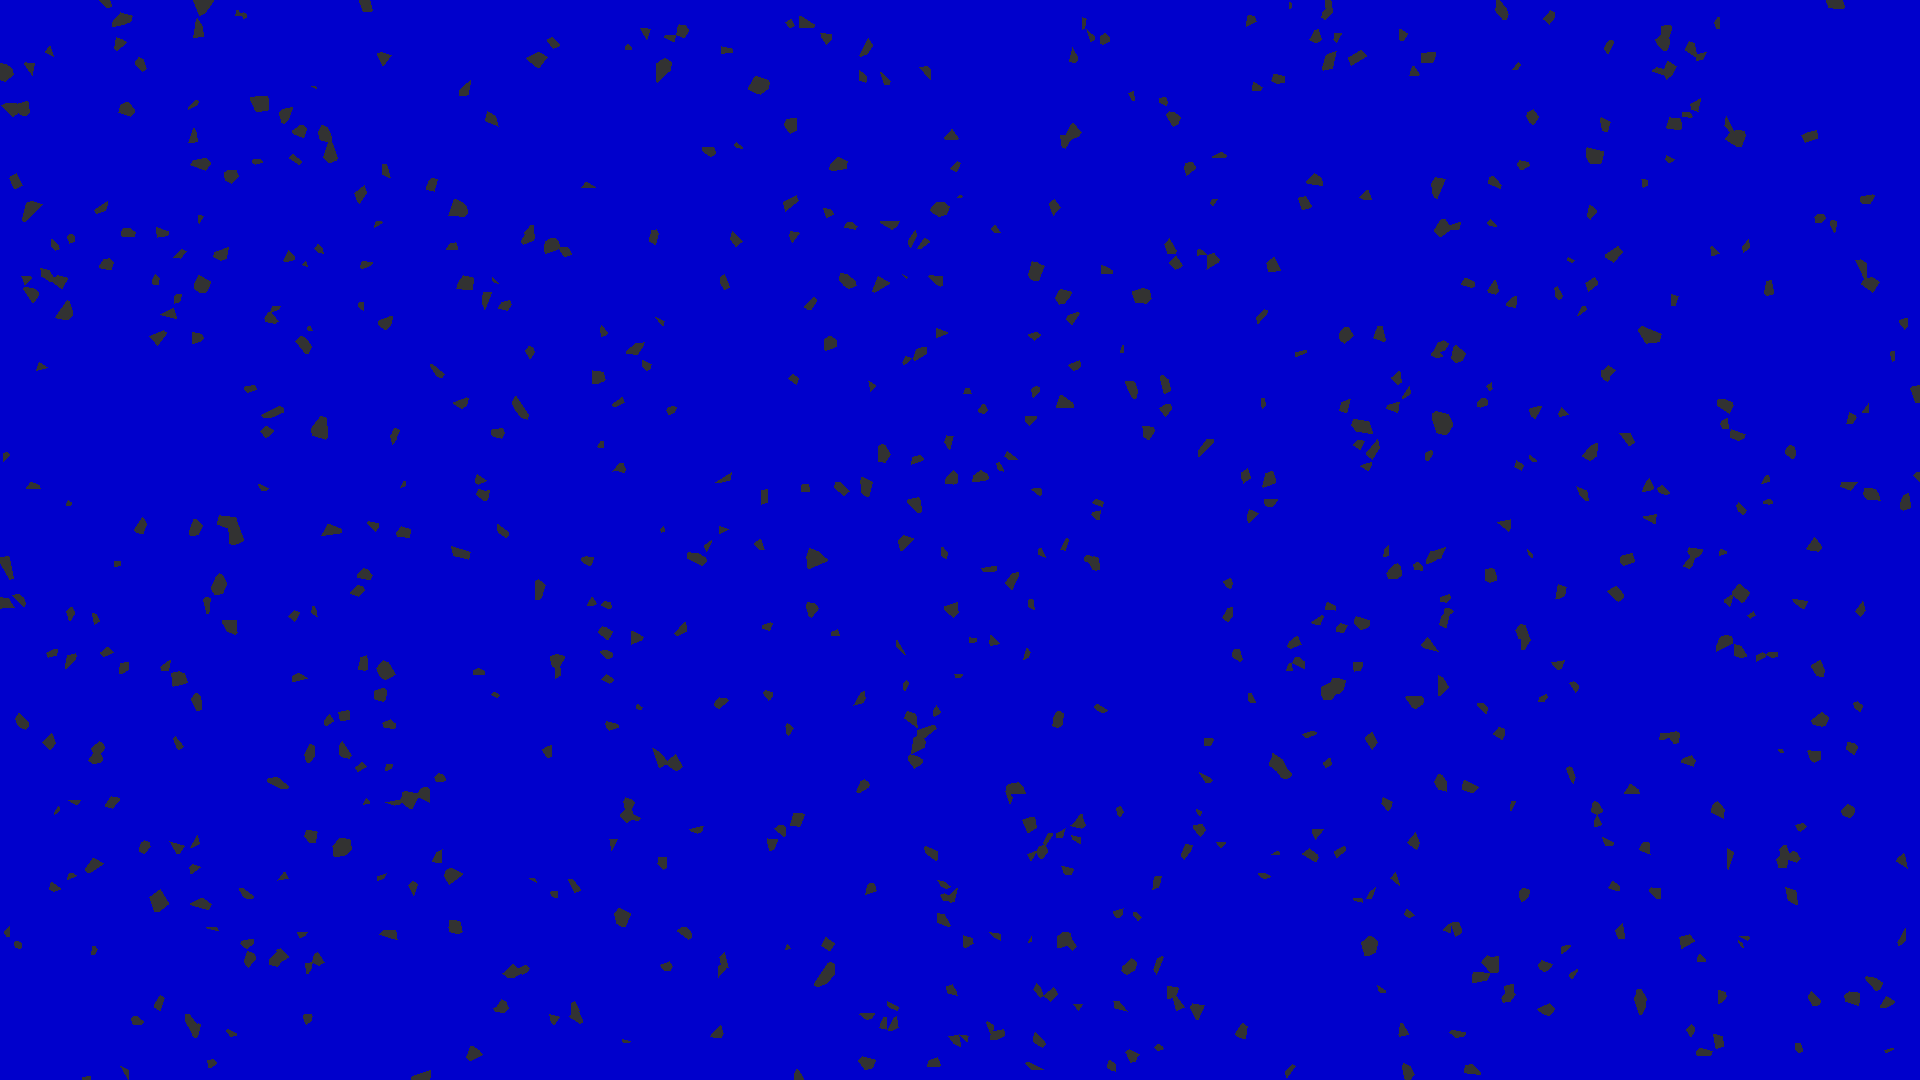
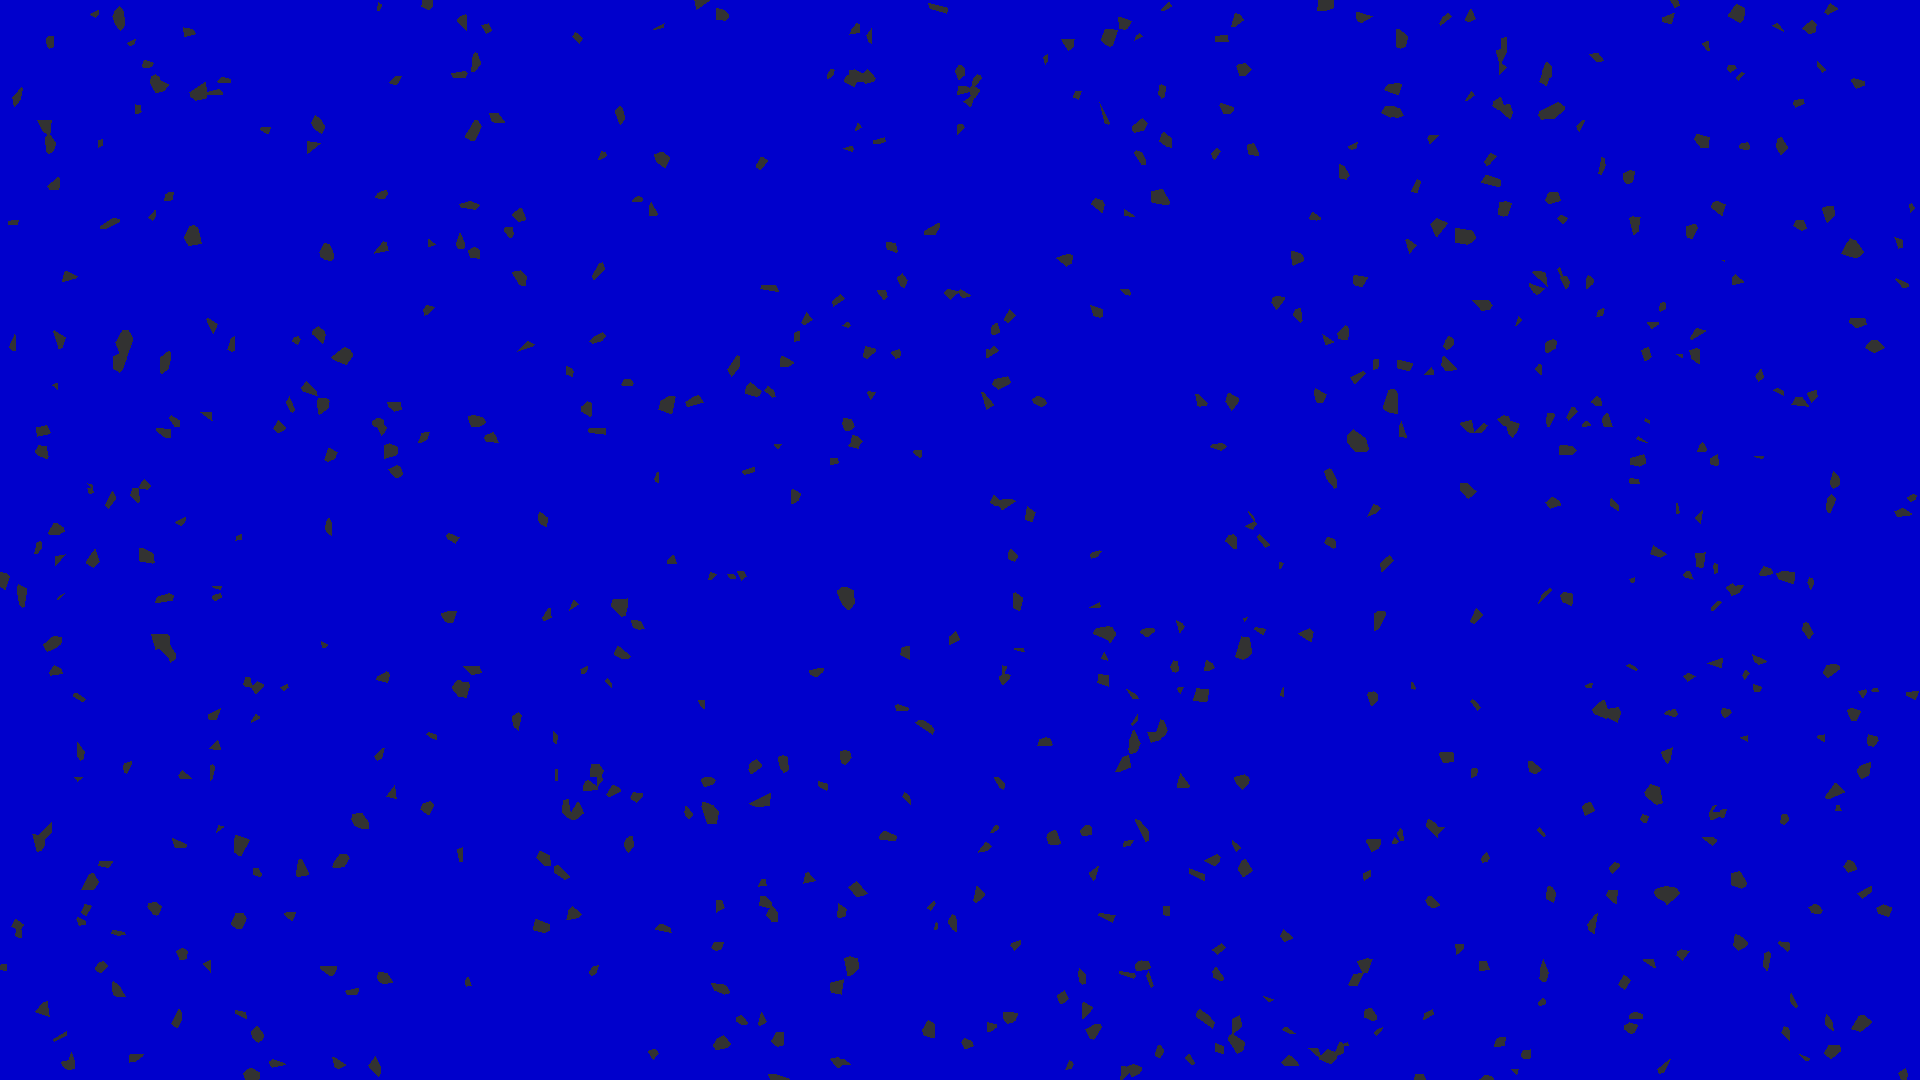
improve image generation speed

diff --git a/map_maker.py b/map_maker.py
@@ -132,7 +132,7 @@ biome_generation_progress, image_generation_progress):
                 (total_image_generation_progress + "%").rjust(7)
             )
 
-            time.sleep(02.1)
+            time.sleep(0.1)
 
             if (total_setup_progress == total_section_generation_progress == total_section_assignment_progress ==
             total_biome_generation_progress == total_image_generation_progress == "100.00") or total_image_generation_progress == "100.00":
@@ -182,10 +182,8 @@ def assign_sections(process_num, section_assignment_progress, dot_coords_piece, 
                 for ii in range(expansions):
                     dd, ii_ = tree.query([dot.x, dot.y], k = [ii + 1])
                     expansion_dot = dot_coords[ii_[0]]
-                    print(expansion_dot.type)
                     if expansion_dot.type == "Water":
                         expansion_dot.type = "Land"
-                    print(expansion_dot.type + "\n")
 
             section_assignment_progress[process_num] = (i + 1) / len(dot_coords_piece) * 100
 
@@ -206,10 +204,13 @@ image_results, processes, dot_coords, width, height):
 
         start_num = process_num * (height // processes)
         for y in range(reps):
+
+            indexes = tree.query([(x, y + start_num) for x in range(width)])[1]
+
             for x in range(width):
                 
                 pixel_type = "Error"
-                pixel_type = dot_coords[tree.query([(x, y + start_num)])[1][0]].type
+                pixel_type = dot_coords[indexes[x]].type
 
                 match(pixel_type):
                     case "Land":
@@ -328,7 +329,7 @@ if __name__ == "__main__":
 
     # Section Assignment
 
-    piece_size = len(dot_coords) // processes
+    """    piece_size = len(dot_coords) // processes
     dot_coords_pieces = [dot_coords[i : i + piece_size] for i in range(0, len(dot_coords), piece_size)]
     dot_coords_pieces.append(dot_coords[i : len(dot_coords) - 1])
 
@@ -343,7 +344,7 @@ if __name__ == "__main__":
         process.start()
     for process in process_list:
         process.join()
-    process_list = []
+    process_list = []"""
 
     # Image Generation
 